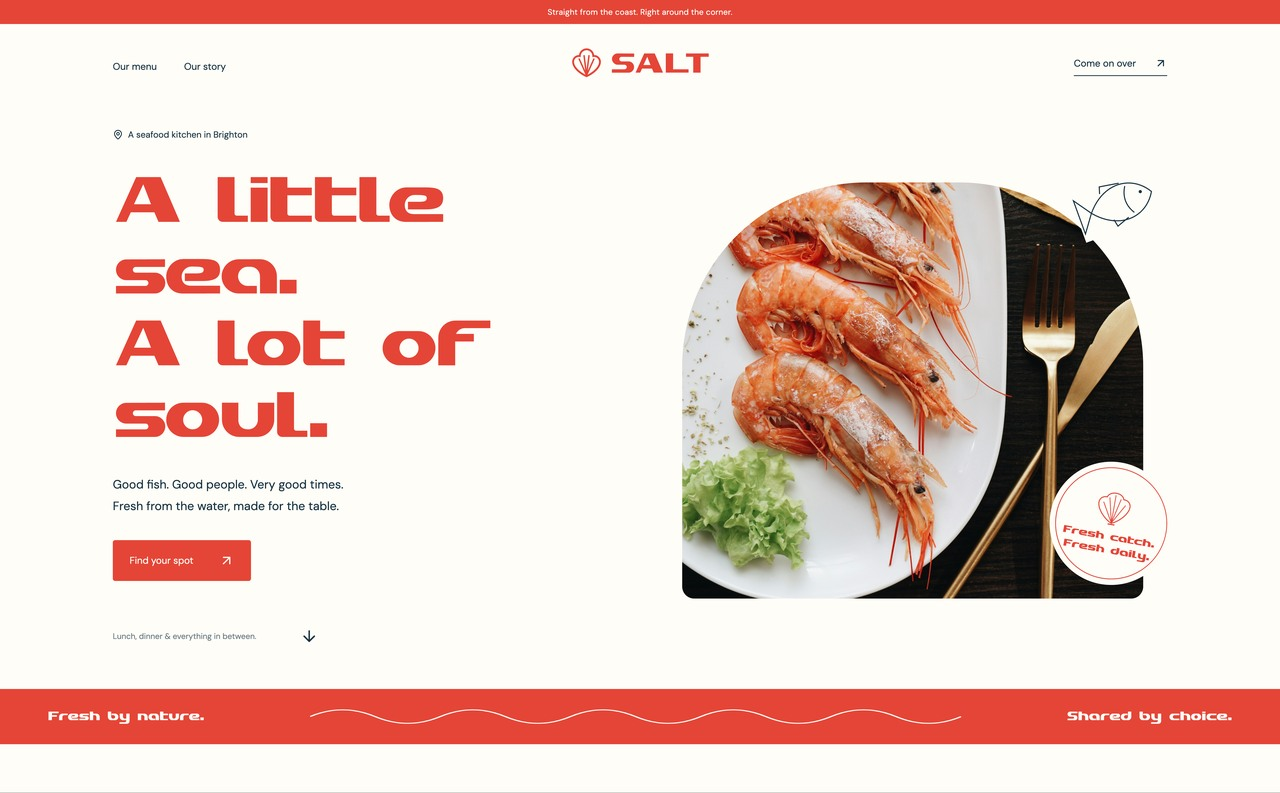
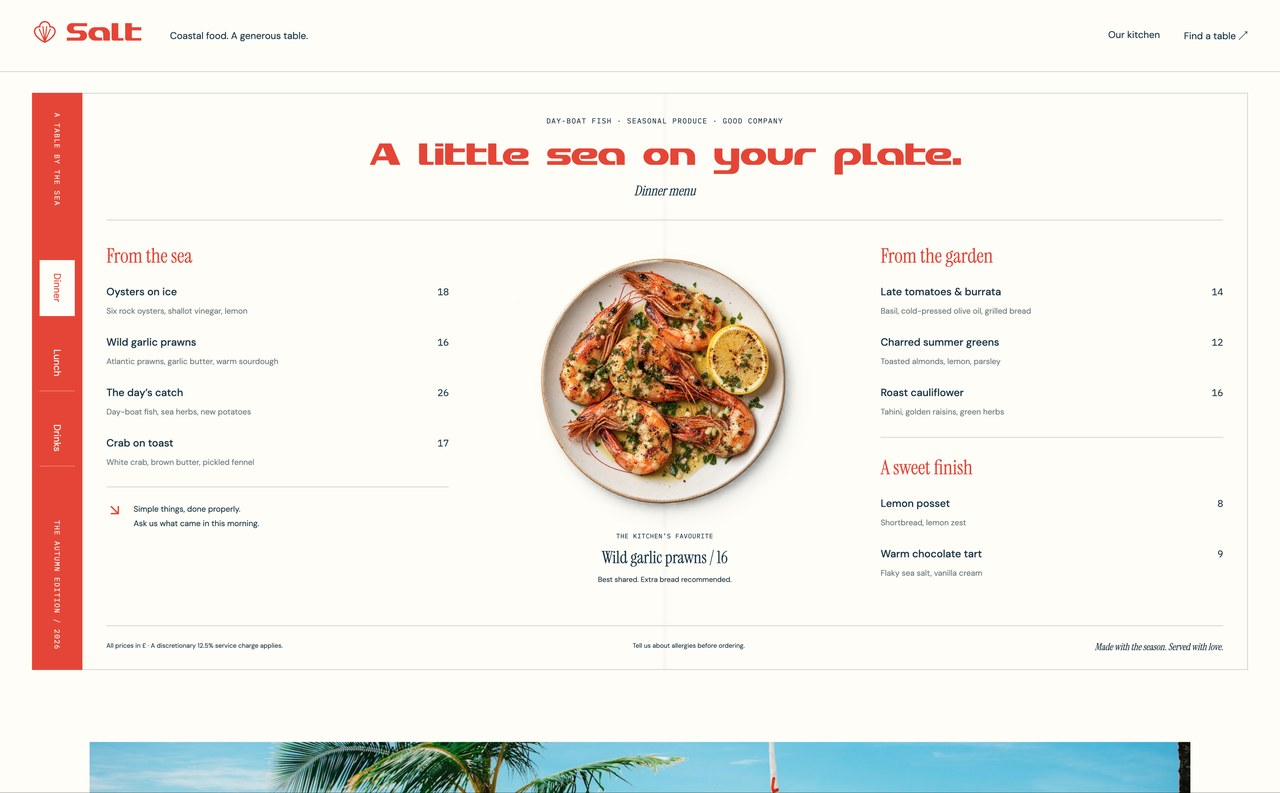
Separate mobile energy controls and refresh the final previews

diff --git a/src/projects/verdant/responsive-02.css b/src/projects/verdant/responsive-02.css
@@ -28,7 +28,7 @@
     min-height: 0;
   }
   .vd-operating-notes {
-    top: 75px;
+    top: 60px;
     left: 20px;
   }
   .vd-operating-notes > span {
